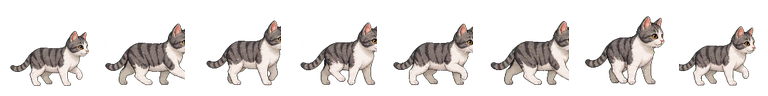
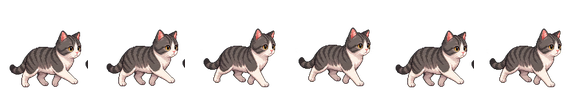
fix: restore round-face walk and stable jump scale

diff --git a/src/components/PhaserCatScene.tsx b/src/components/PhaserCatScene.tsx
@@ -247,11 +247,9 @@ class CatRoomScene extends Phaser.Scene {
     this.targetX = this.jumpLandingX;
     this.cat.setVelocityX(0);
     this.playCatAction("jump", true);
-    const baseScaleY = this.cat.scaleY;
 
     this.tweens.add({
       targets: this.cat,
-      scaleY: { from: baseScaleY, to: baseScaleY * 0.92 },
       y: this.cat.y + 3,
       duration: 190,
       yoyo: true,

diff --git a/docs/CAT_ANIMATION_SPEC.md b/docs/CAT_ANIMATION_SPEC.md
@@ -272,15 +272,16 @@ with abstract code-drawn cat art and gives the room a more believable cat body,
 face, and fur volume, but it is still not final hand-cleaned production motion:
 
 - `idle`: 4 frames
-- `walk`: 8 frames, based on a dedicated walk-cycle keyframe candidate
+- `walk`: 6 frames, using the rounder-face visual baseline while the dedicated 8-frame walk candidate stays under `docs/art/candidates/cat-walk-cycle-keyframes/` for cleanup
 - `jump`: 5 frames, based on dedicated crouch, launch, air, descent, and landing key poses
 - `sleep`: 4 frames
 - `interact`: 5 frames, based on dedicated notice, nuzzle/blink, and settle key poses
 
 These sheets are acceptable as the current Phase 0.1 visual baseline. They
 preserve cat identity and mobile readability better than the previous runtime
-stopgap, but walk foot contact cleanup, jump landing timing, and interact edge
-cleanup still need manual polish before product art lock.
+stopgap, but walk needs a hand-cleaned 8-frame cycle that preserves the rounder
+face, jump landing timing needs review, and interact edge cleanup still needs
+manual polish before product art lock.
 
 `scripts/generate_cat_animation_assets.py` is retained only as a technical
 experiment for validating frame counts, anchors, and Phaser metadata. It must

diff --git a/docs/PROGRESS.md b/docs/PROGRESS.md
@@ -15,7 +15,7 @@ The current implementation includes:
 - Runtime image-asset room scene under `public/assets/scenes/window-room/`.
 - Generated empty room background, first art-directed cat action baseline, animation metadata, and hand-authored Arcade Physics collision config.
 - Cat action keyframe candidate under `docs/art/candidates/cat-action-keyframes/`, with transparent source, normalized `96x96` preview poses, and assembled runtime-sized action sheets.
-- Dedicated walk-cycle candidate under `docs/art/candidates/cat-walk-cycle-keyframes/`, now used for runtime `walk`.
+- Dedicated walk-cycle candidate under `docs/art/candidates/cat-walk-cycle-keyframes/`, archived for cleanup; runtime `walk` currently uses the rounder-face baseline to avoid side-face clipping artifacts.
 - Dedicated jump/interact candidate under `docs/art/candidates/cat-jump-interact-keyframes/`, now used for runtime `jump` and `interact`.
 - Room-zone movement: walk targets use floor zones; jump has anticipation and clear floor-to-floor travel distance while prop landing waits for one-way platform support.
 - Autonomous cat movement with idle, walk, jump, sleep, and click/tap companion animations.
@@ -84,6 +84,6 @@ Result: local Vite dev server returned `HTTP/1.1 200 OK`.
 - Replace assembled candidate cat action sheets with hand-authored final art following `docs/CAT_ANIMATION_SPEC.md`.
 - Move sleep/eat/rest states onto environment zones following `docs/ENVIRONMENT_INTERACTION_SPEC.md`.
 - Add one-way/top-only platform support before enabling true bed/window-bench landings.
-- Manually clean walk edge artifacts and foot contact, jump landing timing, and interact edge/pixel clusters before final art lock.
+- Manually clean the 8-frame walk candidate while preserving the rounder face, then revisit jump landing timing and interact edge/pixel clusters before final art lock.
 - Add foreground/midground split assets after the first scene composition is approved.
 - Review Phaser chunk size after real sprite sheets are introduced.

diff --git a/public/assets/scenes/window-room/README.md b/public/assets/scenes/window-room/README.md
@@ -4,7 +4,7 @@ These files are consumed directly by `src/components/PhaserCatScene.tsx`.
 
 - `background.png`: full 16:9 room background, displayed into the Phaser `640x360` logical scene.
 - `cat/idle.png`: 4-frame idle sprite sheet, `96x96` per frame.
-- `cat/walk.png`: 8-frame walk sprite sheet, `96x96` per frame.
+- `cat/walk.png`: 6-frame walk sprite sheet, `96x96` per frame.
 - `cat/jump.png`: 5-frame jump sprite sheet, `96x96` per frame.
 - `cat/sleep.png`: 4-frame sleep sprite sheet, `96x96` per frame.
 - `cat/interact.png`: 5-frame click/tap reaction sprite sheet, `96x96` per frame.
@@ -18,3 +18,5 @@ The current action sheets use the higher-fidelity visual cat mother asset as a s
 Replace them with hand-authored frame-by-frame sprite sheets when commissioning final product art, but preserve the same action contract unless Phaser is recalibrated. `scripts/generate_cat_animation_assets.py` is retained only for local motion experiments and must not be treated as production art source.
 
 Room behavior should follow `docs/ENVIRONMENT_INTERACTION_SPEC.md`: props like the plant and tray should be modeled as interaction/avoidance zones before they become physical collision blockers.
+
+The 8-frame walk-cycle candidate is archived under `docs/art/candidates/cat-walk-cycle-keyframes/`, but runtime currently uses the rounder-face 6-frame baseline until that candidate is hand-cleaned.